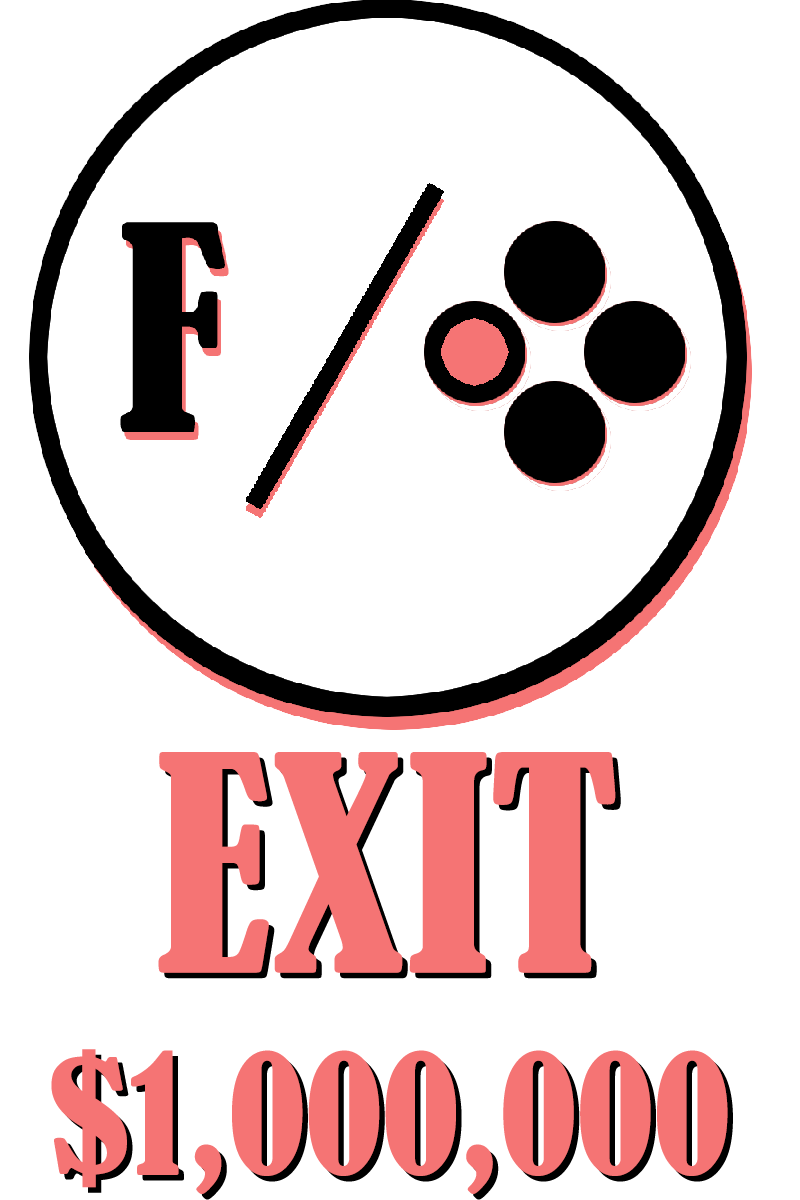
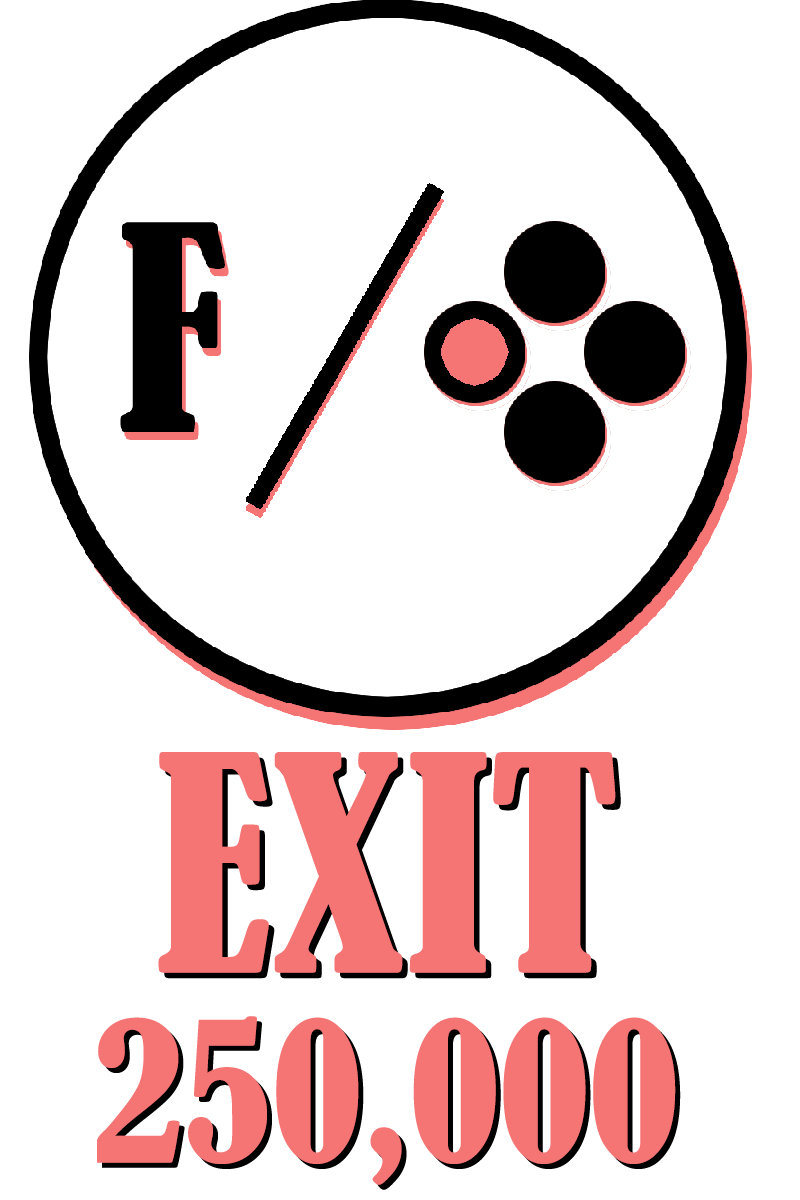
exit balancing

Changed region(s): [[0.0625, 0.8325, 0.9375, 1.0]]

diff --git a/AL_CARPONE/Exit.cpp b/AL_CARPONE/Exit.cpp
@@ -7,7 +7,7 @@ void Exit::createTrigger() {
 }
 
 void Exit::triggerFunction(Player& player, State& state) {
-	if (player.getCash() >= 1000000.f && !state.policeAlerted()) {
+	if (player.getCash() >= 250000.f && !state.policeAlerted()) {
 		state.gameWon = true;
 		state.audioSystemPtr->stopMusic();
 		state.audioSystemPtr->playSoundEffect(SOUND_SELECTION::WINGAME);
